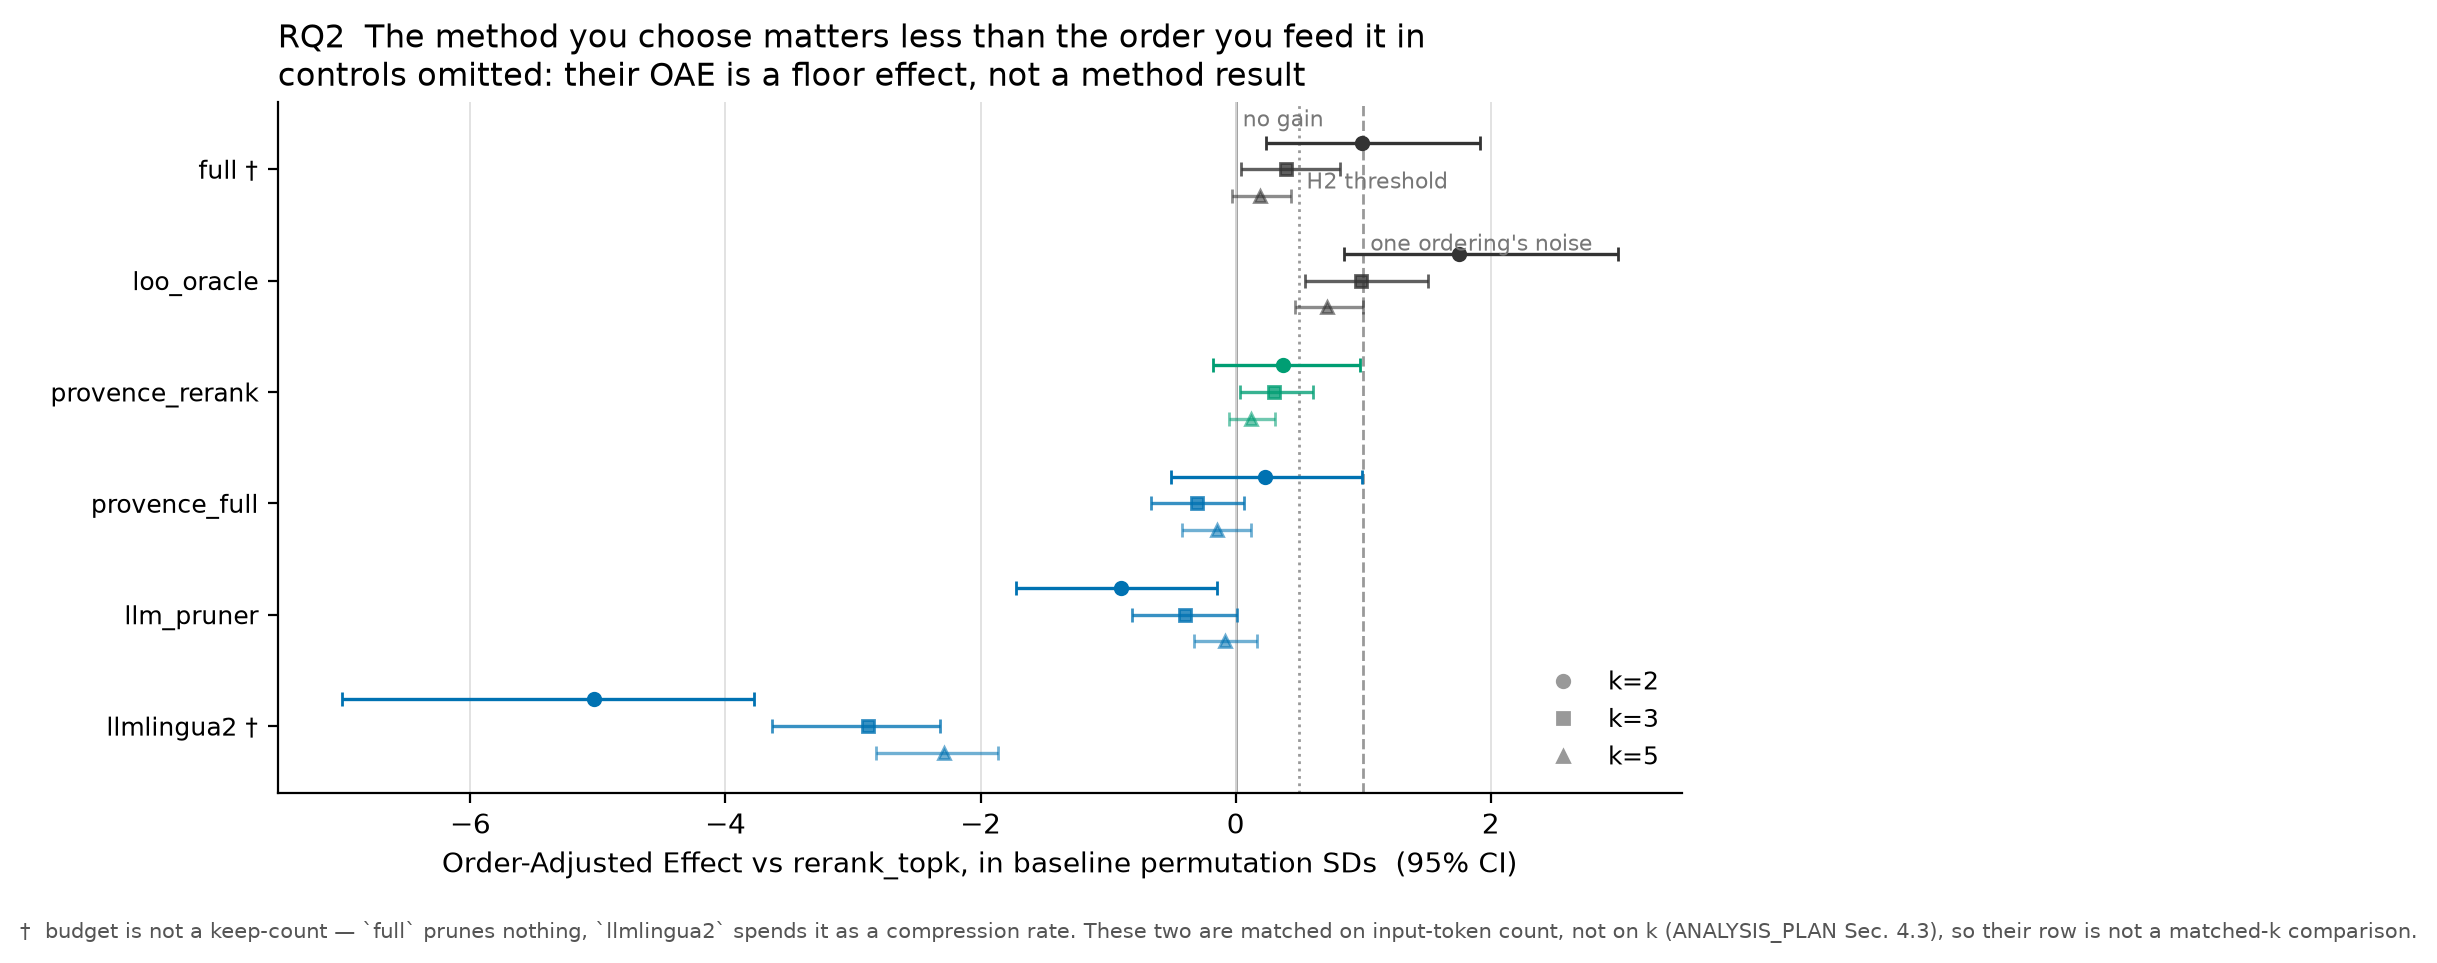
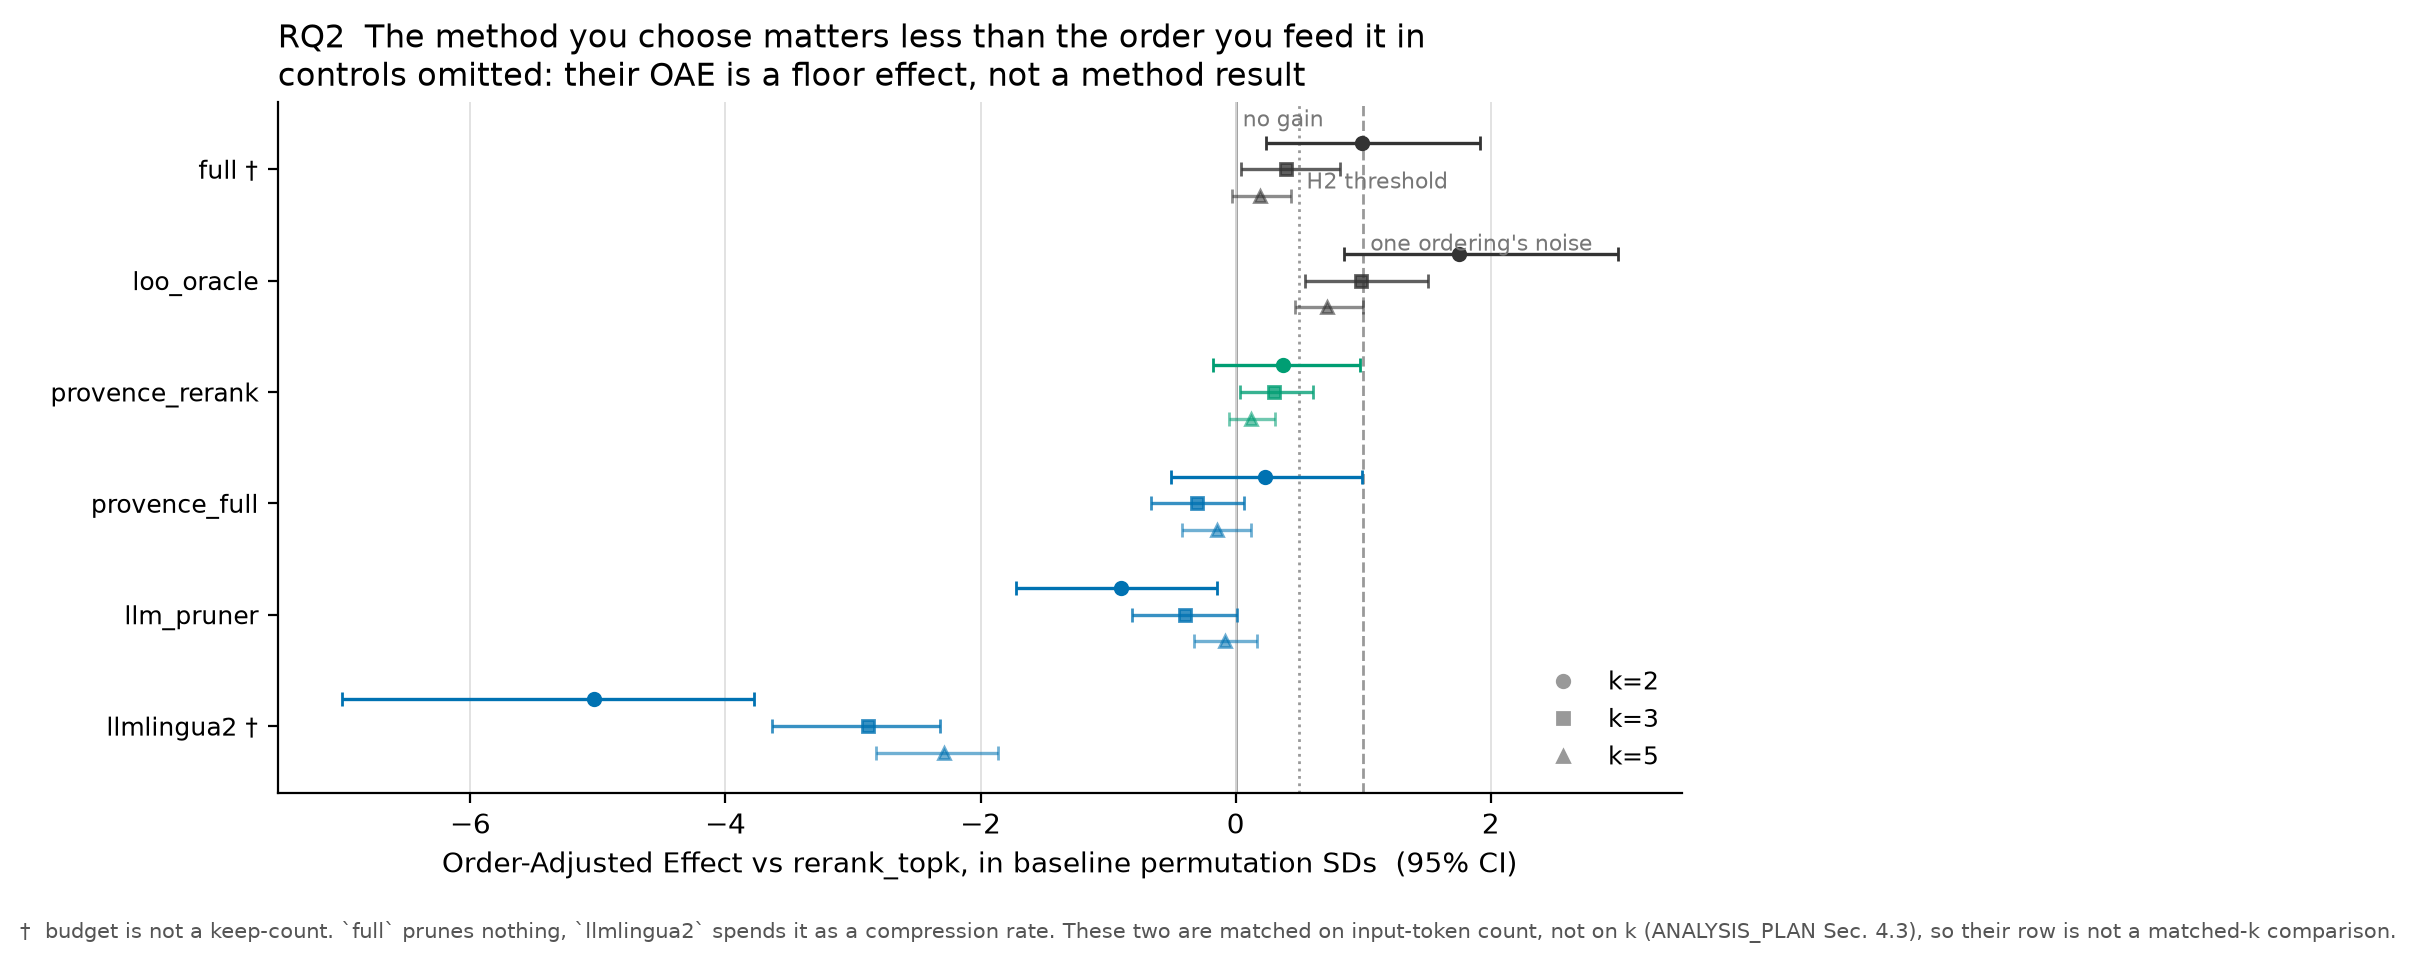
Remove em dashes from README and figure text
Punctuation, replaced case by case rather than swapped for a single
character: a comma where the clause was parenthetical, a colon where it
introduced a list, "is" where the dash stood in for a verb in a
definition. The en dash in "60-90%" becomes "60 to 90%".

Three of these were inside figure text and were rendered into the
published PNGs, so the figures are redrawn.

diff --git a/src/figures.py b/src/figures.py
@@ -136,7 +136,7 @@ def _tick_labels(arms: Sequence[str]) -> tuple[list[str], bool]:
 def _keep_count_footnote(fig: Any) -> None:
     fig.text(
         0.005, -0.012,
-        "†  budget is not a keep-count — `full` prunes nothing, `llmlingua2` spends it as a "
+        "†  budget is not a keep-count. `full` prunes nothing, `llmlingua2` spends it as a "
         "compression rate. These two are matched on input-token count, not on k "
         "(ANALYSIS_PLAN Sec. 4.3), so their row is not a matched-k comparison.",
         fontsize=7.5, color="#555555", ha="left", va="top",
@@ -508,7 +508,7 @@ def fig_selection_stability(probe: Mapping[str, Any]) -> Any:
     ax_dist.legend(frameon=False, fontsize=8.5, loc="upper center")
     ax_dist.set_title(
         f"The pruner picks different passages when shown the same passages in a different order\n"
-        f"{cfg['model']}, n={summary['n']} queries, k={cfg['budget']}, greedy — "
+        f"{cfg['model']}, n={summary['n']} queries, k={cfg['budget']}, greedy. "
         f"the selection changed in {summary['n_changed']} of {summary['n']}",
         loc="left", fontsize=10.5,
     )
@@ -543,7 +543,7 @@ def fig_selection_stability(probe: Mapping[str, Any]) -> Any:
         0.005, 0.005,
         "A robustness check, outside the registered confirmatory family. LLM order-sensitivity is "
         "well established in the in-context-learning and\nmultiple-choice literature; the claim here is "
-        "narrower — that the known effect reaches into a pruner's selection, and that no published "
+        "narrower: that the known effect reaches into a pruner's selection, and that no published "
         "LLM-pruner\nevaluation controls for it.",
         fontsize=7.5, color="#555555", ha="left", va="bottom",
     )

diff --git a/README.md b/README.md
@@ -5,7 +5,7 @@ context selection in RAG.
 
 Reorder the passages in a RAG context without changing a word of them, and the
 answer changes. Every published context-pruning method is evaluated in one fixed
-order — and pruning itself *moves* passages between positions. This study
+order, and pruning itself *moves* passages between positions. This study
 measures how much of a reported pruning gain is actually that.
 
 ---
@@ -35,7 +35,7 @@ output.** This is the sharper version of the thesis: not "the score moves" but
 
 - **An LLM asked which passages to keep picks different ones when shown the same
   passages in a different order.** Selection Jaccard across three presentations is
-  **0.213** over 100 questions — against **1.000** for a cross-encoder scored
+  **0.213** over 100 questions, against **1.000** for a cross-encoder scored
   through the same permutations, and **0.047** for chance. **The selection changed
   in 98 of 100 questions, and in 23 of them the three presentations shared no
   passage at all.** So a published LLM-pruner result is one draw from a
@@ -58,7 +58,7 @@ Status.*
 
 ## Related work, and what is genuinely new here
 
-Order sensitivity in LLMs is well established — in-context example order moves
+Order sensitivity in LLMs is well established. In-context example order moves
 few-shot accuracy by tens of points, multiple-choice option order by up to 75%,
 lost-in-the-middle describes the positional shape of it, and benchmarks such as
 RGB have shuffled retrieved documents and confirmed order matters. Context
@@ -68,9 +68,9 @@ budget-constrained selection under token limits.
 What is missing is the **join**. A literature re-check in August 2026 found no
 work that evaluates pruning methods under multiple permutations with content held
 fixed, none that runs a position-matched placebo, and none that reports how often
-method rankings flip across orderings. Nearest neighbours — conformal
-coverage-controlled filtering (arXiv 2511.17908), answer-survival diagnostics for
-budgeted packing (arXiv 2607.00725) — address adjacent questions and use a single
+method rankings flip across orderings. The nearest neighbours, conformal
+coverage-controlled filtering (arXiv 2511.17908) and answer-survival diagnostics
+for budgeted packing (arXiv 2607.00725), address adjacent questions and use a single
 fixed ordering throughout.
 
 A note on the LLM-pruner result above: that an LLM's selection is order-sensitive
@@ -84,8 +84,8 @@ deterministic token classifier rather than a prompted model.
 ## Why this is a gap
 
 Context pruning is a crowded subfield: a dozen methods claim they can discard
-60–90% of retrieved context with little quality loss. Every one is evaluated with
-the passages in one fixed order — usually retriever rank. Separately, other work
+60 to 90% of retrieved context with little quality loss. Every one is evaluated with
+the passages in one fixed order, usually retriever rank. Separately, other work
 has established that RAG answers are unstable under permutation of that same set.
 
 Nobody has put those two facts together. Pruning does not only remove content, it
@@ -103,13 +103,13 @@ a number.
   retrieval needed. Rows not shipping exactly ten paragraphs are excluded
   (60/7,405, 0.81%) so a position, a positional bucket and a keep-k budget mean
   the same thing across questions.
-- **Generator.** Qwen2.5-3B-Instruct, 4-bit, local — because leave-one-out
+- **Generator.** Qwen2.5-3B-Instruct, 4-bit, local, because leave-one-out
   attribution needs the log-probability of the answer sequence, which hosted APIs
   generally do not expose.
 - **Greedy decoding everywhere.** Sampling noise and permutation noise would be
   confounded and every number would be meaningless. Guarded in three places.
 - **The permutation protocol.** For every (question, arm, budget) cell, generate
-  under P=5 orderings of the *kept* passages — as-given, reverse, and three seeded
+  under P=5 orderings of the *kept* passages: as-given, reverse, and three seeded
   random. Random orderings are seeded per question, so the three draws are not one
   shared trio reused across the dataset.
 - **Selection, rewriting and ordering are three separate steps.** `select()`
@@ -121,30 +121,30 @@ a number.
 | Arm | What it is |
 |---|---|
 | `full` | all ten passages, upper reference |
-| `nocontext` | question only — the memorization control |
+| `nocontext` | question only, the memorization control |
 | `rerank_topk` | cross-encoder rerank, keep top-k. The OAE denominator |
 | `provence_rerank` | Provence's reranker only, original text |
 | `provence_full` | Provence as published, sentence-pruned text |
 | `llmlingua2` | token-level compression, budget spent as a rate |
 | `llm_pruner` | ask the generator which passages to keep |
 | `random_drop` | noise floor |
-| **`placebo_pos`** | **drop k by position, not content — the novel control** |
+| **`placebo_pos`** | **drop k by position, not content, the novel control** |
 | `loo_oracle` | keep the k passages with the largest LOO log-prob drop |
 
 ### Derived quantities
 
-**Order-Adjusted Effect** — a method's gain over baseline, divided by the
+**Order-Adjusted Effect** is a method's gain over baseline, divided by the
 baseline's within-question permutation SD. How many orderings-worth of noise does
-this method actually buy you. **Rank Flip Rate** — the fraction of method-pair
-comparisons whose sign reverses under some single ordering. **Placebo Gap** —
+this method actually buy you. **Rank Flip Rate** is the fraction of method-pair
+comparisons whose sign reverses under some single ordering. **Placebo Gap** is
 quality against the position-matched placebo at equal keep-count; near zero means
-the method is not doing content selection. **Oracle Gap** — headroom against the
+the method is not doing content selection. **Oracle Gap** is the headroom against the
 leave-one-out ceiling.
 
 ## Statistics
 
 Permutations are nested within questions, so the P×N cells are **not**
-independent — treating them as such inflates n by 5× and manufactures
+independent, and treating them as such inflates n by 5× and manufactures
 significance. The resampling unit is the question, and all P of its permutations
 travel with it. The test suite contains a regression guard that builds data with
 strong between-question and weak within-question variation and asserts the correct
@@ -153,7 +153,7 @@ CI is >1.5× wider than the flattened one.
 Paired comparisons throughout. Holm correction across one family of nine
 confirmatory comparisons. CIs, not p-values, as the primary presentation.
 
-The analysis was **pre-registered before any main-run data existed** — hypotheses,
+The analysis was **pre-registered before any main-run data existed**: hypotheses,
 thresholds, primary endpoint, analysis population and multiplicity family all
 fixed and committed in advance. Retrievable from git history at commit `2f24548`.
 
@@ -189,12 +189,12 @@ numbers are meaningless by construction), `--n 20` shrinks the question set,
 | Piece | State |
 |---|---|
 | `data.py`, `chunks.py`, `cache.py`, `metrics.py`, `stats.py`, `gate.py`, `run.py`, `smoke.py` | done |
-| `generate.py` — local 4-bit generator, greedy, answer log-probs | done |
+| `generate.py`, the local 4-bit generator, greedy, answer log-probs | done |
 | arms `full` / `nocontext` / `random_drop` / `placebo_pos` (3 variants) | done |
 | arms `rerank_topk` / `provence_rerank` / `provence_full` / `llm_pruner` / `llmlingua2` | done |
-| arm `loo_oracle` | done — ran at full scale, n=274 |
-| main run + confirmatory analysis | done — 45,510 rows |
-| figures — one per research question, plus the selection probe, `python -m src.figures` | done |
+| arm `loo_oracle` | done, ran at full scale, n=274 |
+| main run + confirmatory analysis | done, 45,510 rows |
+| figures, one per research question, plus the selection probe, `python -m src.figures` | done |
 | 2WikiMultihopQA + hosted cross-generator replication | to come |
 
 **222 tests** pass (`python -m pytest -q -m "not network"`, ~10s). Three are
@@ -205,7 +205,7 @@ deselects them.
 
 Off-the-shelf pruner checkpoints are used out of distribution relative to their
 training data, so this measures deployed-as-published behaviour, not each method's
-ceiling. The Provence checkpoint is `cc-by-nc-nd-4.0` — non-commercial. `rank` is
+ceiling. The Provence checkpoint is `cc-by-nc-nd-4.0`, non-commercial. `rank` is
 the dataset's **as-given** order, not a retriever ranking; HotpotQA distractor has
 no retriever, and the term is reserved for the NQ-open arm. `llmlingua2` presents
 n permutable slots where a keep-k arm presents k, so its raw permutation variance
